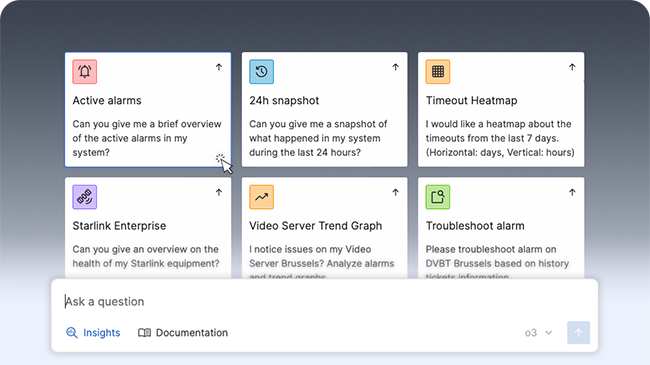
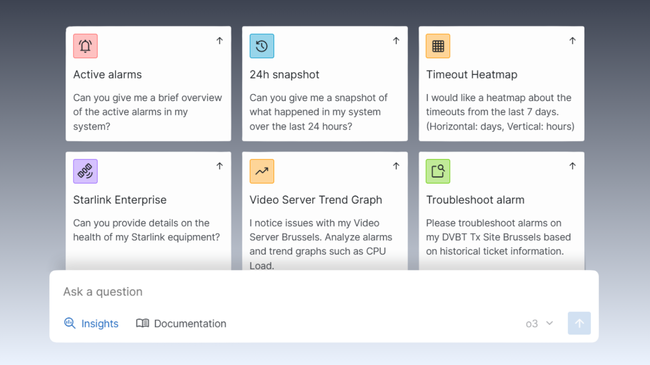
updated images

Changed region(s): [[0.0, 0.0603, 1.0, 0.9644], [0.9846, 0.0, 1.0, 0.0301], [0.0, 0.0, 0.0308, 0.0301]]

diff --git a/dataminer/Functions/DataMiner_Assistant/Adding_Predefined_Questions.md b/dataminer/Functions/DataMiner_Assistant/Adding_Predefined_Questions.md
@@ -9,7 +9,7 @@ uid: Assistant_Predefined_Questions
 
 When you start a new chat session in the *Insights* or *Documentation* tab, six predefined questions will be displayed to help you get started quickly. Instead of typing a question, you will be able to click one of the question tiles.
 
-![Predefined questions](~/dataminer/images/Assistant_PredefinedQuestions.png)
+![Predefined questions](~/dataminer/images/Assistant_PredefinedQuestions.gif)
 
 On the *Insights* tab, you will be able to use custom predefined questions to tailor the Assistant to your workflows, making it faster and easier to get the insights you need most. To add a new custom question, you will need to edit the JSON file directly:
 
